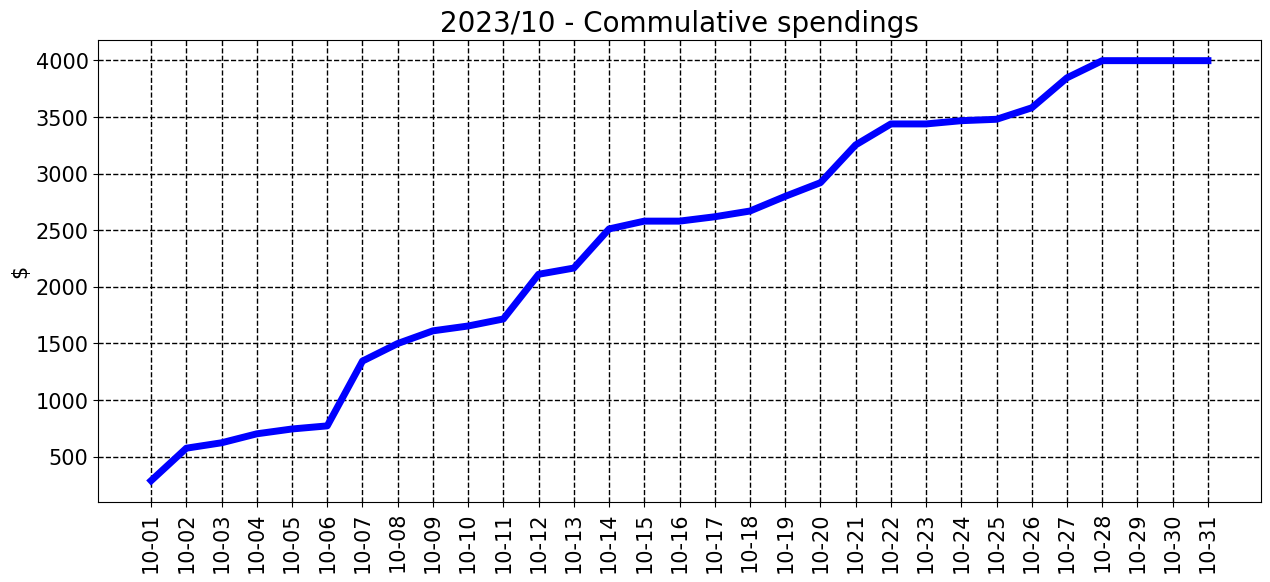
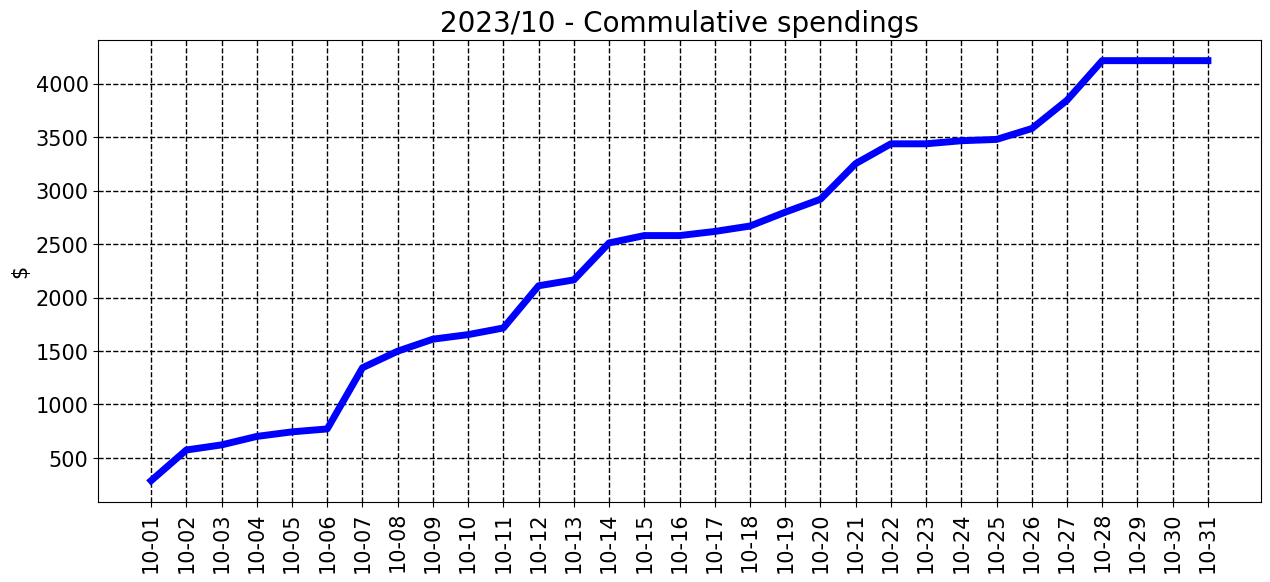
commit from python

Changed region(s): [[0.0307, 0.0928, 1.0, 0.6495], [0.0307, 0.6495, 1.0, 0.8041]]

diff --git a/README.md b/README.md
@@ -7,7 +7,7 @@ __________________________________
 <sub><sup>
 | Spent | Avg daily | End of month projection | Spent since 2023/7 |
 |---|---|---|---|
-| $3998.0  |  $142.8  | $4427.0  |  $19356.0  |
+| $4216.0  |  $150.6  | $4669.0  |  $19575.0  |
 </sub></sup>
 __________________________________
 ![graph_10_sum](graph_10_sum.png)
